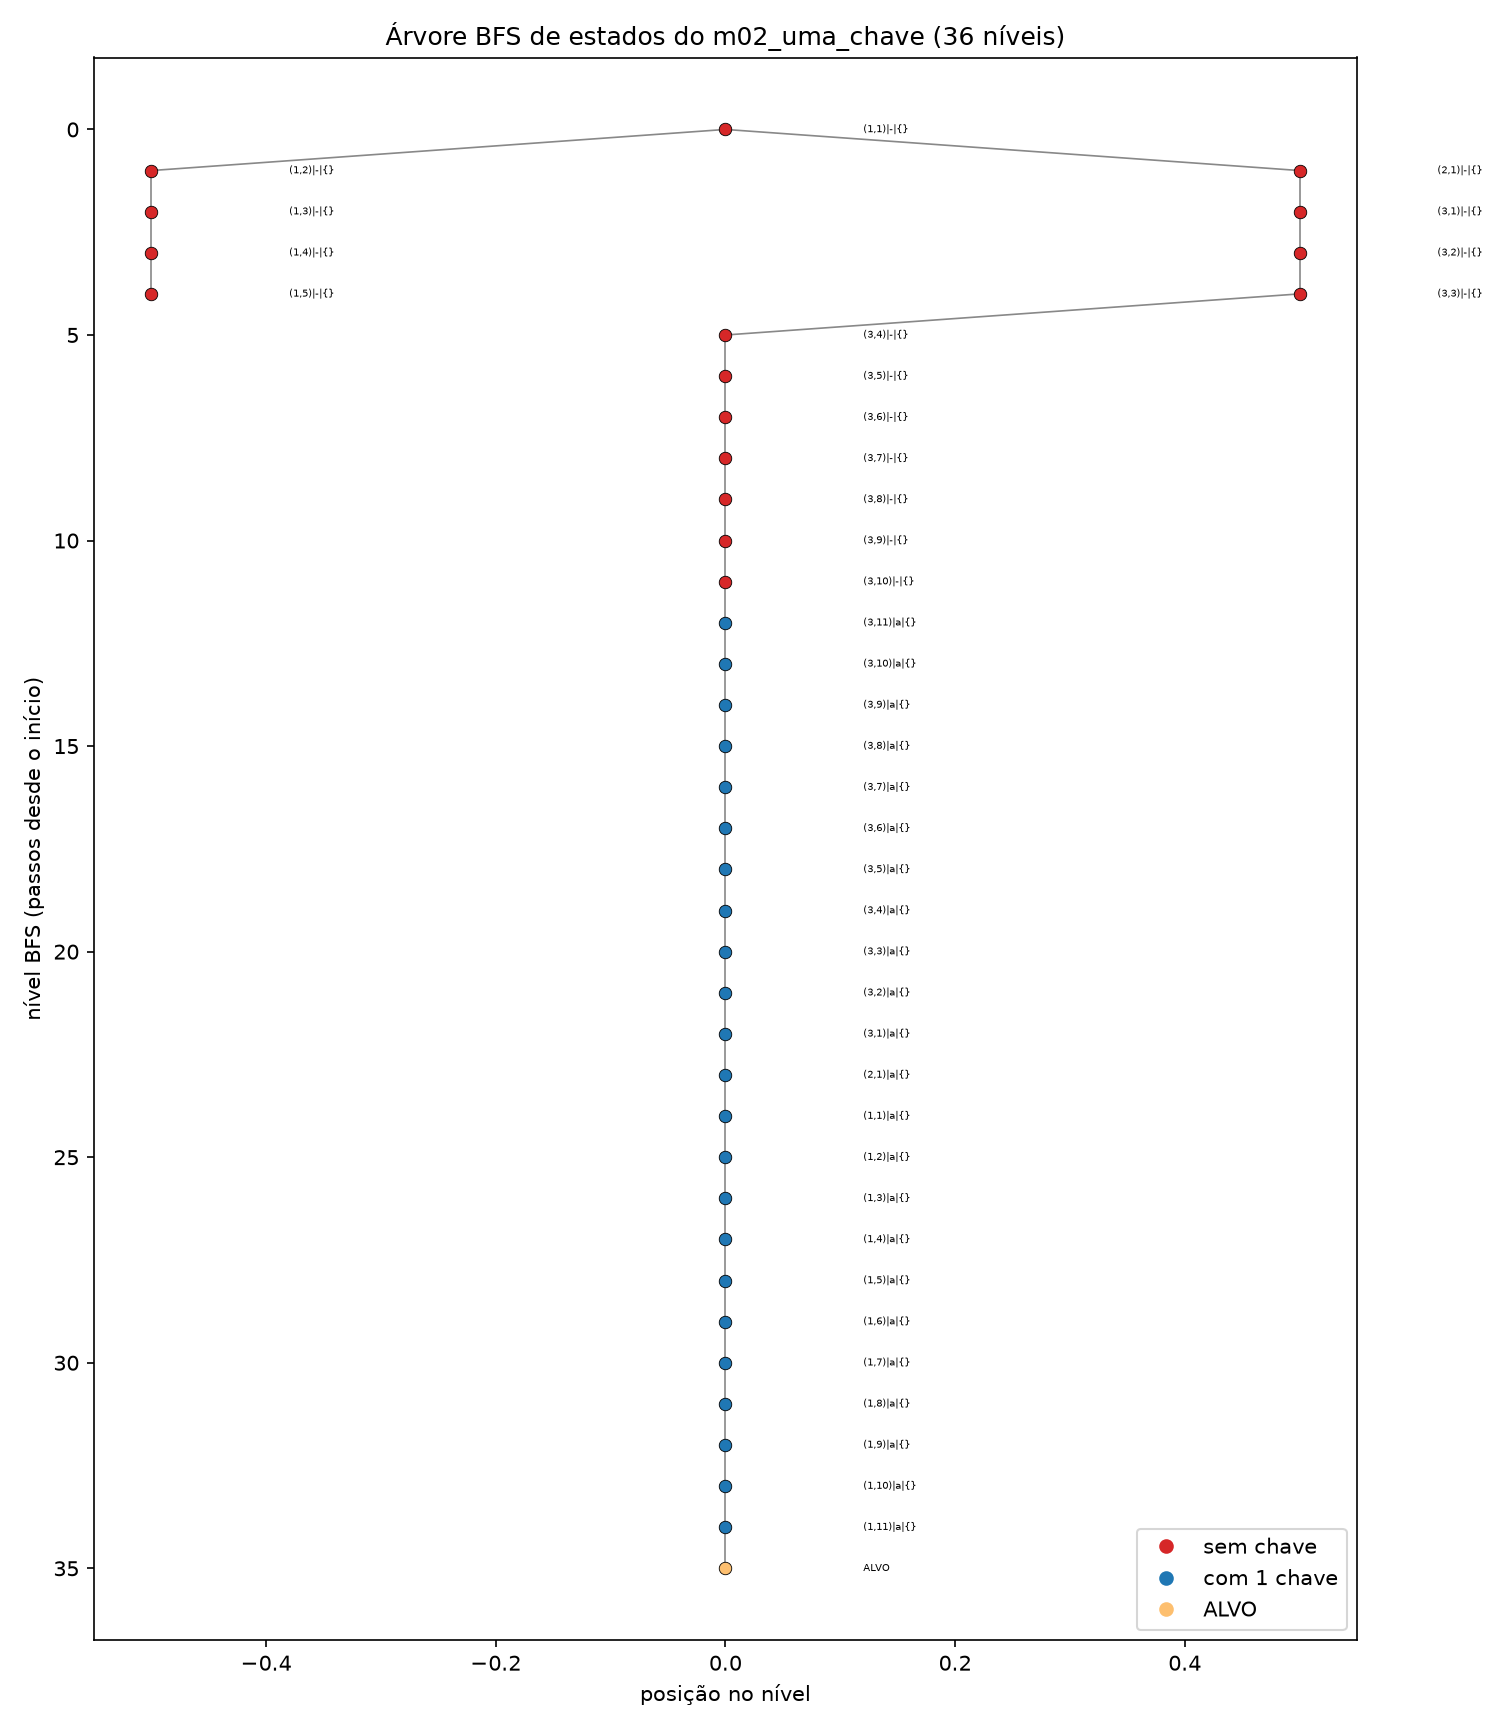
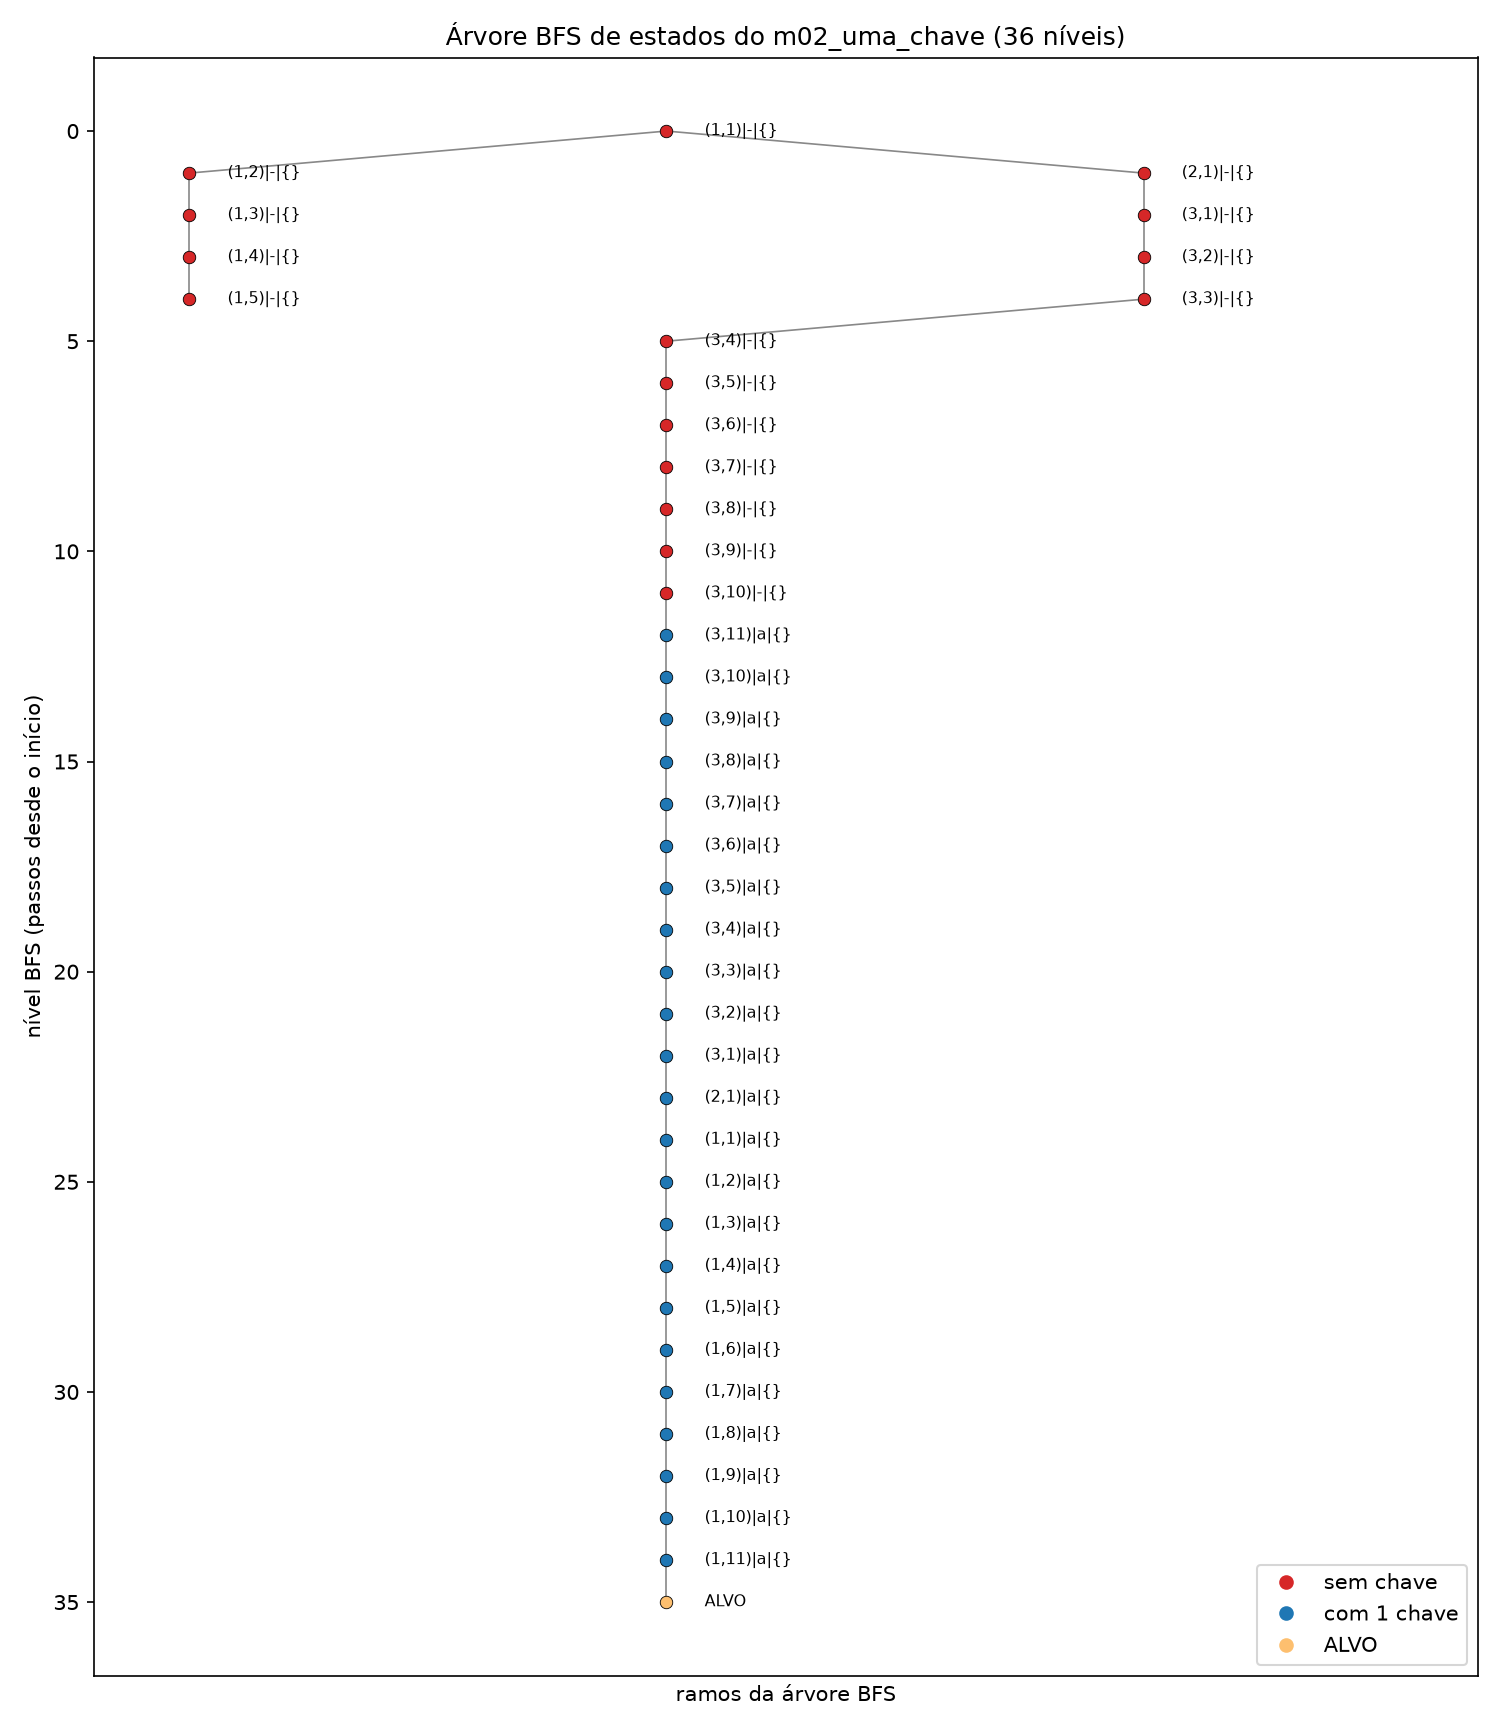
Parte 1 (viz): árvore BFS do m02 com rótulos legíveis e eixo x sem números sem significado

diff --git a/src/viz.py b/src/viz.py
@@ -307,10 +307,16 @@ def figura_arvore_bfs(mapa: Mapa, destino: Path) -> None:
     for v, (x, y) in pos.items():
         cor = "#fdbf6f" if v == ALVO else CORES_CAMADA[len(v[2]) % len(CORES_CAMADA)]
         ax.plot(x, y, "o", color=cor, markersize=6, markeredgecolor="black", markeredgewidth=0.4)
-        ax.text(x + 0.12, y, rotulo(v), fontsize=5, va="center")
+        # [IA] Claude – legibilidade: rótulo dos estados maior e perto do nó (antes fonte 5, quase ilegível)
+        ax.text(x + 0.04, y, rotulo(v), fontsize=7.5, va="center")
     ax.invert_yaxis()
+    # [IA] Claude – margem à direita para os rótulos do último ramo não encostarem na borda da figura
+    xs = [x for x, _ in pos.values()]
+    ax.set_xlim(min(xs) - 0.1, max(xs) + 0.35)
     ax.set_ylabel("nível BFS (passos desde o início)")
-    ax.set_xlabel("posição no nível")
+    # [IA] Claude – a posição horizontal só separa os ramos; os números do eixo x não têm significado
+    ax.set_xticks([])
+    ax.set_xlabel("ramos da árvore BFS")
     ax.set_title(f"Árvore BFS de estados do {mapa.nome} ({len(niveis)} níveis)")
     from matplotlib.lines import Line2D
     ax.legend(handles=[Line2D([0], [0], marker="o", lw=0, color=CORES_CAMADA[0], label="sem chave"),
